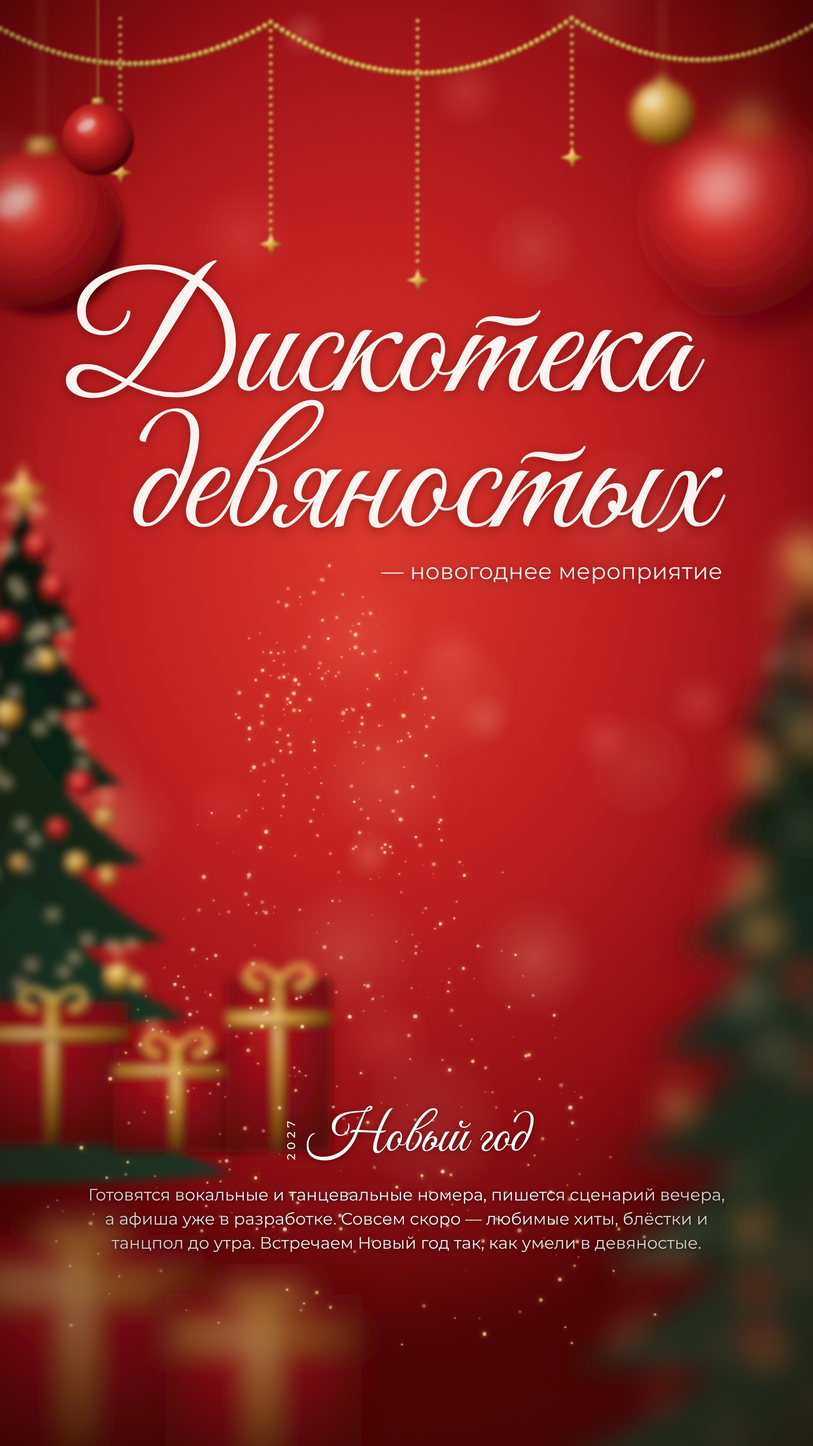
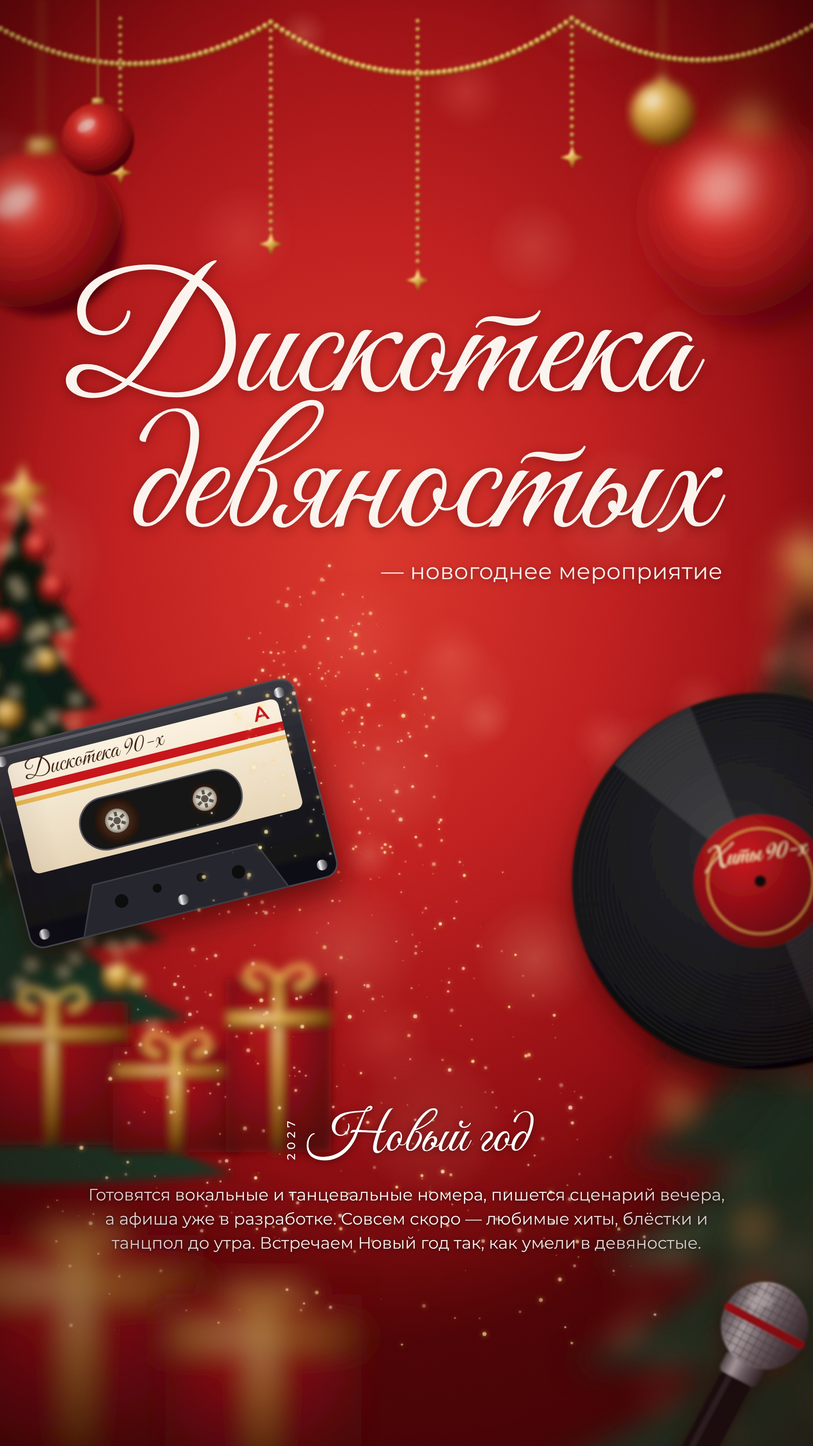
Дискотека 90-х: реквизит по бокам (кассета, винил, микрофон)
Claude-Session: https://claude.ai/code/session_01LLSo5KVTj5Hx9MnqrYRrx4

Changed region(s): [[0.6824, 0.4688, 1.0, 0.75], [0.0, 0.4688, 0.4343, 0.6562], [0.8375, 0.875, 0.9926, 1.0]]

diff --git a/static/disco90/index.html b/static/disco90/index.html
@@ -50,6 +50,19 @@
       <filter id="b6"><feGaussianBlur stdDeviation="6"/></filter>
       <filter id="b12"><feGaussianBlur stdDeviation="12"/></filter>
       <filter id="b20"><feGaussianBlur stdDeviation="20"/></filter>
+      <linearGradient id="casBody" x1="0" y1="0" x2="0" y2="1">
+        <stop offset="0" stop-color="#3a3a42"/><stop offset=".5" stop-color="#1d1d23"/><stop offset="1" stop-color="#0e0e12"/></linearGradient>
+      <linearGradient id="label" x1="0" y1="0" x2="0" y2="1">
+        <stop offset="0" stop-color="#fbf1df"/><stop offset="1" stop-color="#e7d6b8"/></linearGradient>
+      <radialGradient id="reel" cx="50%" cy="50%" r="50%">
+        <stop offset="0" stop-color="#f4f1ea"/><stop offset=".7" stop-color="#cfc8bb"/><stop offset="1" stop-color="#8d867a"/></radialGradient>
+      <radialGradient id="tape" cx="50%" cy="50%" r="50%">
+        <stop offset=".45" stop-color="#4a2a1a"/><stop offset="1" stop-color="#22130b"/></radialGradient>
+      <radialGradient id="vinyl" cx="45%" cy="40%" r="60%">
+        <stop offset="0" stop-color="#2b2b2f"/><stop offset=".8" stop-color="#121214"/><stop offset="1" stop-color="#050506"/></radialGradient>
+      <linearGradient id="chrome" x1="0" y1="0" x2="1" y2="0">
+        <stop offset="0" stop-color="#6d6d72"/><stop offset=".3" stop-color="#f2f2f4"/><stop offset=".55" stop-color="#9b9ba1"/><stop offset="1" stop-color="#3f3f44"/></linearGradient>
+      <filter id="shadow" x="-30%" y="-30%" width="160%" height="160%"><feDropShadow dx="0" dy="18" stdDeviation="18" flood-color="#2a0003" flood-opacity=".55"/></filter>
     </defs>
     <g id="g"></g>
   </svg>
@@ -111,6 +124,50 @@ function gift(x,y,w,h,blur){const g=grp(blur);
   el('path',{d:`M${x+w/2},${y} c-34,-36 -60,-4 -26,9 M${x+w/2},${y} c34,-36 60,-4 26,9`,stroke:'#e9b955','stroke-width':8,fill:'none','stroke-linecap':'round'},g)}
 gift(-30,1330,200,190,'b6');gift(150,1390,170,140,'b6');gift(300,1300,140,230,'b6');
 gift(-60,1640,330,300,'b20');gift(220,1720,260,240,'b20');
+// ===== 90s props on the sides =====
+// cassette — left, sharp (like the sharp tree in the reference)
+(function(){const c=el('g',{transform:'translate(215,1080) rotate(-14)',filter:'url(#shadow)'});
+  el('rect',{x:-210,y:-135,width:420,height:270,rx:18,fill:'url(#casBody)',stroke:'#4a4a52','stroke-width':2},c);
+  el('rect',{x:-185,y:-112,width:370,height:150,rx:10,fill:'url(#label)'},c);
+  el('rect',{x:-185,y:-80,width:370,height:12,fill:'#c8161f'},c);
+  el('rect',{x:-185,y:-62,width:370,height:6,fill:'#e9b955'},c);
+  const lt=el('text',{x:-165,y:-88,fill:'#3a1d10','font-family':'Great Vibes','font-size':34},c);lt.textContent='Дискотека 90-х';
+  const sd=el('text',{x:150,y:-88,fill:'#c8161f','font-family':'Montserrat','font-weight':800,'font-size':26},c);sd.textContent='A';
+  el('rect',{x:-110,y:-40,width:220,height:70,rx:35,fill:'#141418',stroke:'#55555e','stroke-width':2},c);
+  [[-60,'tape',30],[60,'tape',20]].forEach(([x,f,r])=>{el('circle',{cx:x,cy:-5,r,fill:'url(#tape)'},c);
+    el('circle',{cx:x,cy:-5,r:16,fill:'url(#reel)'},c);
+    for(let k=0;k<6;k++){const a=k*Math.PI/3;el('rect',{x:x-2,y:-5-12,width:4,height:6,fill:'#5b554c',transform:`rotate(${k*60} ${x} -5)`},c)}
+    el('circle',{cx:x,cy:-5,r:5,fill:'#5b554c'},c)});
+  el('path',{d:'M-140,135 L-112,70 L112,70 L140,135Z',fill:'#26262d',stroke:'#3c3c45','stroke-width':2},c);
+  [[-80,100],[80,100],[-30,95],[30,95]].forEach(([x,y],i)=>el('circle',{cx:x,cy:y,r:i<2?9:6,fill:'#0c0c0f'},c));
+  [[-190,-118],[190,-118],[-190,118],[190,118],[0,118]].forEach(([x,y])=>{el('circle',{cx:x,cy:y,r:7,fill:'url(#chrome)'},c)});
+  el('path',{d:'M-200,-128 L120,-128',stroke:'#fff',opacity:.18,'stroke-width':4,'stroke-linecap':'round'},c);
+})();
+
+// vinyl record — right, half off the edge, slightly soft focus
+(function(){const v=el('g',{transform:'translate(1010,1170) rotate(-8)',filter:'url(#shadow)'});const g=el('g',{filter:'url(#b2)'},v);
+  el('circle',{r:250,fill:'url(#vinyl)'},g);
+  for(let r=240;r>95;r-=6) el('circle',{r,fill:'none',stroke:'#26262a','stroke-width':1.2,opacity:.9},g);
+  el('path',{d:'M0,0 L-170,-180 A248,248 0 0 1 -60,-242Z',fill:'#fff',opacity:.10},g);
+  el('path',{d:'M0,0 L170,180 A248,248 0 0 1 60,242Z',fill:'#fff',opacity:.07},g);
+  el('circle',{r:88,fill:'#c8161f'},g);el('circle',{r:88,fill:'url(#shade)'},g);
+  el('circle',{r:70,fill:'none',stroke:'#e9b955','stroke-width':2,opacity:.8},g);
+  const tx=el('text',{x:0,y:-28,'text-anchor':'middle',fill:'#f6e2b5','font-family':'Great Vibes','font-size':34},g);tx.textContent='Хиты 90-х';
+  el('circle',{r:8,fill:'#0b0b0c'},g);
+})();
+
+// vintage microphone — right, lower, leaning against the gifts side
+(function(){const m=el('g',{transform:'translate(1000,1790) rotate(28) scale(.85)',filter:'url(#shadow)'});const g=el('g',{filter:'url(#b2)'},m);
+  el('rect',{x:-26,y:40,width:52,height:240,rx:22,fill:'#151518'},g);
+  el('rect',{x:-16,y:50,width:9,height:220,rx:4,fill:'#fff',opacity:.12},g);
+  el('rect',{x:-32,y:20,width:64,height:34,rx:8,fill:'url(#chrome)'},g);
+  el('circle',{cx:0,cy:-40,r:68,fill:'url(#chrome)'},g);
+  for(let k=-60;k<=60;k+=12) el('line',{x1:k,y1:-40-Math.sqrt(Math.max(0,66*66-k*k)),x2:k,y2:-40+Math.sqrt(Math.max(0,66*66-k*k)),stroke:'#55555b','stroke-width':1.4,opacity:.7},g);
+  for(let k=-60;k<=60;k+=12) el('line',{y1:-40+k,x1:-Math.sqrt(Math.max(0,66*66-k*k)),y2:-40+k,x2:Math.sqrt(Math.max(0,66*66-k*k)),stroke:'#55555b','stroke-width':1.4,opacity:.7},g);
+  el('rect',{x:-70,y:-46,width:140,height:14,rx:7,fill:'#c8161f'},g);
+  el('ellipse',{cx:-24,cy:-70,rx:20,ry:10,fill:'#fff',opacity:.5,transform:'rotate(-30 -24 -70)'},g);
+})();
+
 
 // bokeh
 const b=document.getElementById('bokeh').getContext('2d');s=77;
